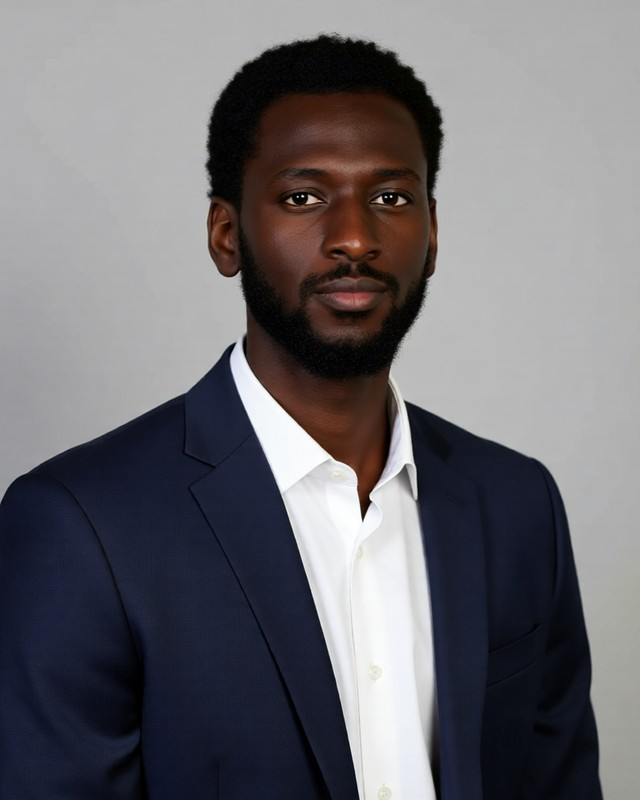
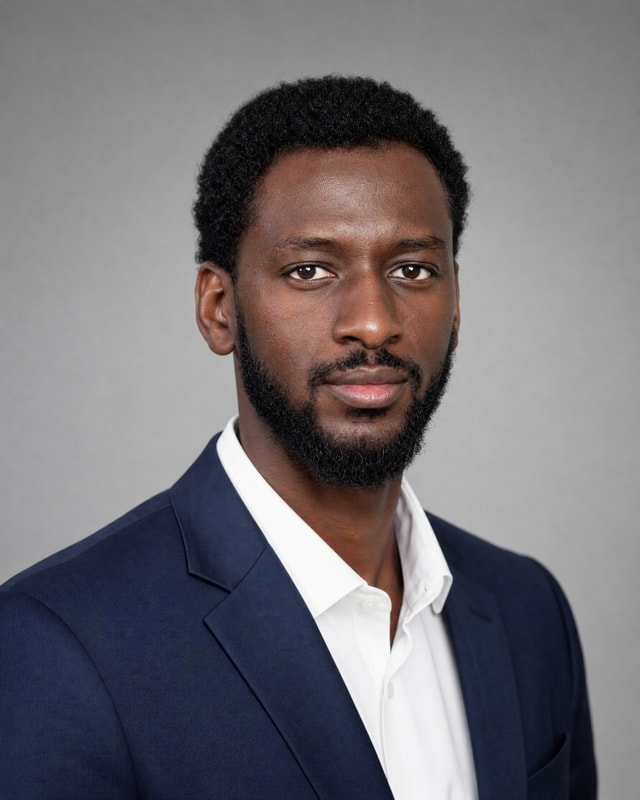
feat(cv): replace the cv photo
New head-and-shoulders photo, same 640x800 size as before. PROVENANCE.md records where it comes from and where the earlier file is kept.

diff --git a/src/assets/art/PROVENANCE.md b/src/assets/art/PROVENANCE.md
@@ -505,6 +505,17 @@ The knight that makes the knight's move from Niamey to Rabat.
   `projects/coilcheck-tight.webp`: screenshots and figures of his own projects, copied from his portfolio.
 - `crown.svg`, `crown-180.png`: his ZTK crown logo.
 
+## CV photo (`src/assets/img/headshot.jpg`), replaced on 2026-11-22
+
+- The file named `headshot.jpg` everywhere above is the earlier one (2026-10-07, local Qwen-Image-Edit, real face pasted back
+  from `me_day.jpg`). It is in the git history and in `Portfolio-originals/headshots-2026-11-22/base-current.jpg`.
+- The current file is his pick of 2026-11-22: `Portfolio-originals/headshots-2026-11-22/v5-6-gpt-5.4-image-2.png`,
+  resized to 640×800, JPEG q90.
+  - model: `openai/gpt-5.4-image-2` through OpenRouter, 2K, 4:5 (script `headshots5.mjs`, round 5, image 6 of 7)
+  - inputs: seven face crops of his own photos (day, night, and five of his Google Photos favorites), plus the earlier
+    `headshot.jpg` as pose and styling reference only
+  - nothing was edited after generation; only the CV uses this file
+
 
 ## Appendix: round-5 parents of the climbing poses (from `art/LICENSES-log.jsonl`)
 
